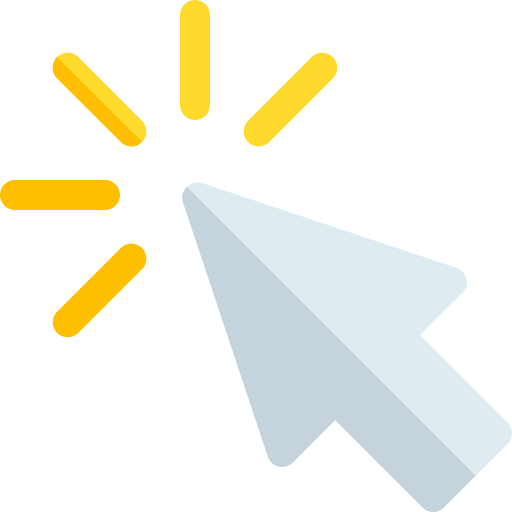
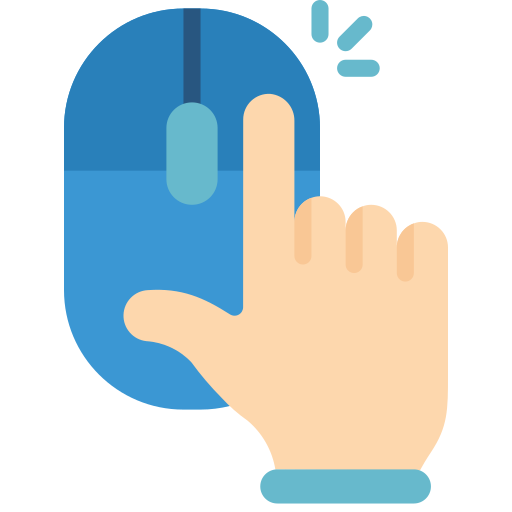
Small Changes
Change the click.png image.
Modify path in main-menu.css to the correct image and css path.
Move the sound files into sound-effects folder. Specify in SoundEffects.java.
Add sound to the button in InstructionPage.

diff --git a/src/main/java/brickGame/SoundEffects.java b/src/main/java/brickGame/SoundEffects.java
@@ -15,10 +15,10 @@ public class SoundEffects {
     public void initSoundEffects() {
         try {
             //load sound effect files
-            File hitBlockSoundFile = new File("src/main/resources/hitBlock.m4a");
-            File hitSliderSoundFile = new File("src/main/resources/hitSlider.mp3");
-            File hitBonusSoundFile = new File("src/main/resources/hitBonus.m4a");
-            File hitButtonSoundFile = new File("src/main/resources/hitButton.m4a");
+            File hitBlockSoundFile = new File("src/main/resources/sound-effects/hitBlock.m4a");
+            File hitSliderSoundFile = new File("src/main/resources/sound-effects/hitSlider.mp3");
+            File hitBonusSoundFile = new File("src/main/resources/sound-effects/hitBonus.m4a");
+            File hitButtonSoundFile = new File("src/main/resources/sound-effects/hitButton.m4a");
 
             URI hitBlockSoundURI = hitBlockSoundFile.toURI();
             URI hitSliderSoundURI = hitSliderSoundFile.toURI();

diff --git a/src/main/java/brickGame/InstructionPage.java b/src/main/java/brickGame/InstructionPage.java
@@ -1,5 +1,7 @@
 package brickGame;
 
+import javafx.event.ActionEvent;
+import javafx.event.EventHandler;
 import javafx.geometry.Insets;
 import javafx.scene.Scene;
 import javafx.scene.control.Button;
@@ -24,7 +26,16 @@ public class InstructionPage {
         VBox instructionsBox = getInstructionsBox();
 
         Button backButton = new Button("Back To Main Menu");
-        backButton.setOnAction(e -> main.switchToMainMenuPage());
+        backButton.setOnAction(new EventHandler<ActionEvent>() {
+            @Override
+            public void handle(ActionEvent event) {
+                SoundEffects sound = new SoundEffects();
+                sound.initSoundEffects();
+                sound.playHitButtonSound();
+
+                main.switchToMainMenuPage();
+            }
+        });
         backButton.setTranslateX(70);
 
         VBox vbox = new VBox(instructionsBox, backButton);

diff --git a/src/main/java/brickGame/MainMenuPage.java b/src/main/java/brickGame/MainMenuPage.java
@@ -19,7 +19,7 @@ public class MainMenuPage {
 
     private void init() {
 
-        Image logoImage = new Image("bricksLogo.png");
+        Image logoImage = new Image(getClass().getResource("/main-menu/bricksLogo.png").toExternalForm());
         ImageView imageView = new ImageView(logoImage);
 
         Button newGame = new Button("START");
@@ -68,7 +68,7 @@ public class MainMenuPage {
         root.getChildren().addAll(imageView,newGame,instruction);
 
         scene = new Scene(root, 500, 700);
-        scene.getStylesheets().add("main-menu.css");
+        scene.getStylesheets().add(getClass().getResource("/main-menu/main-menu.css").toExternalForm());
     }
 
     public Scene getScene() {
